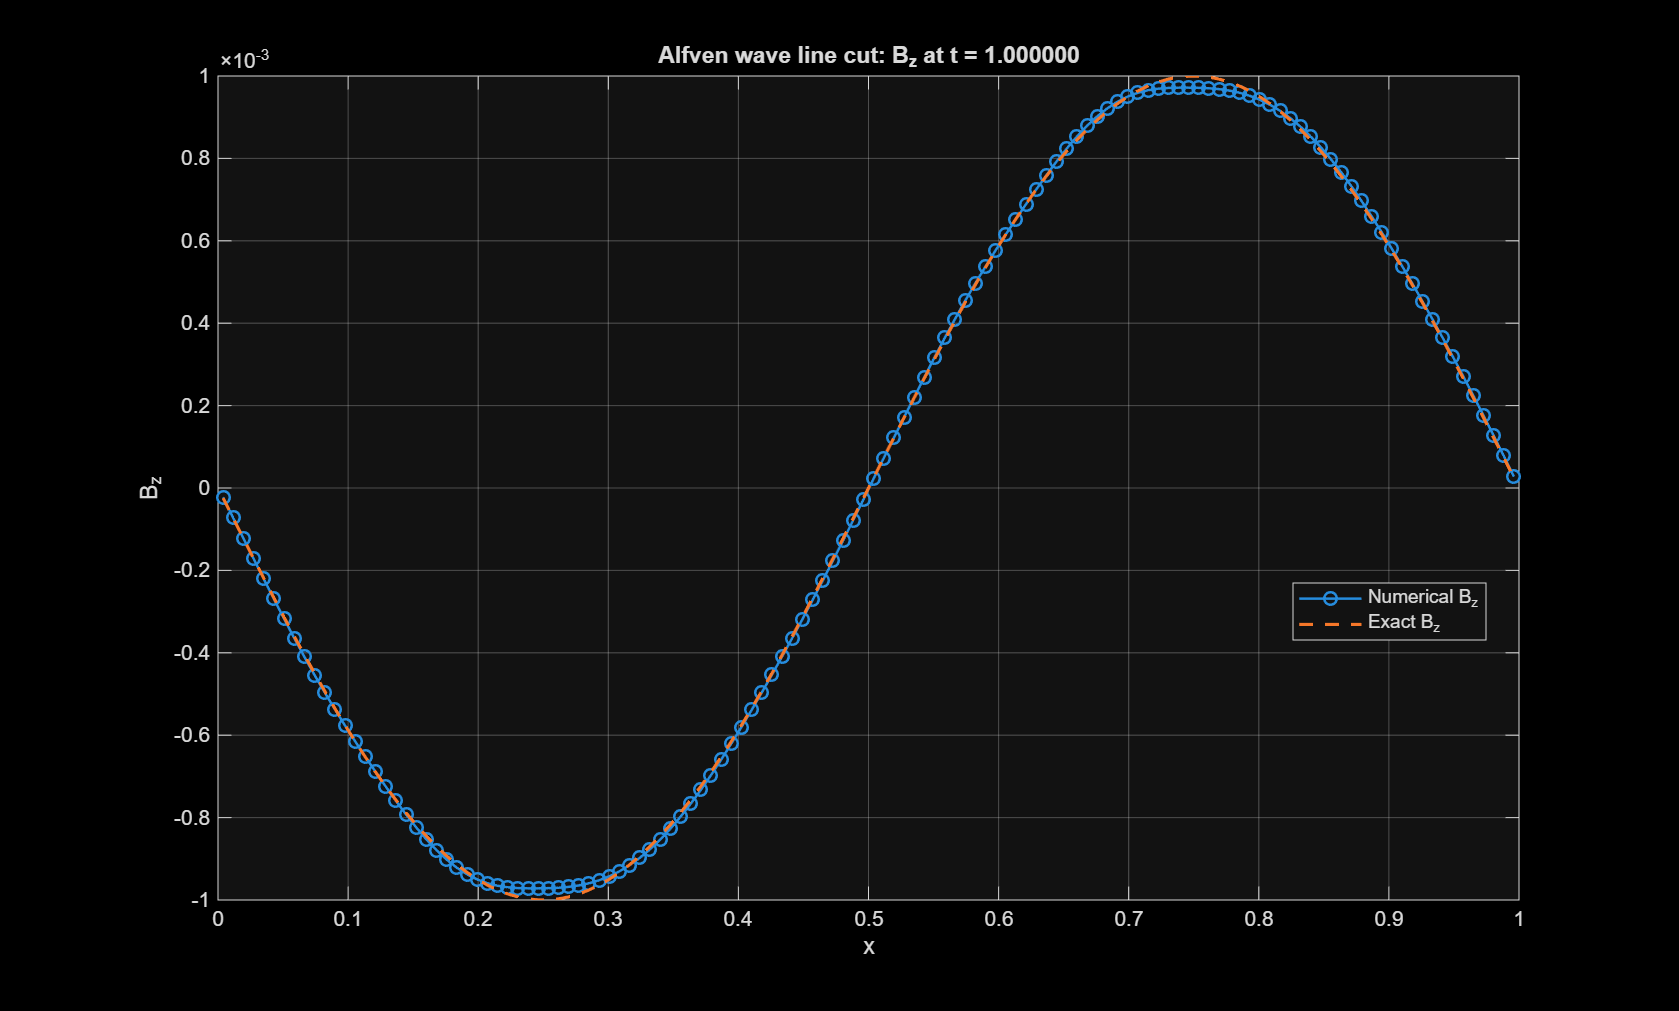
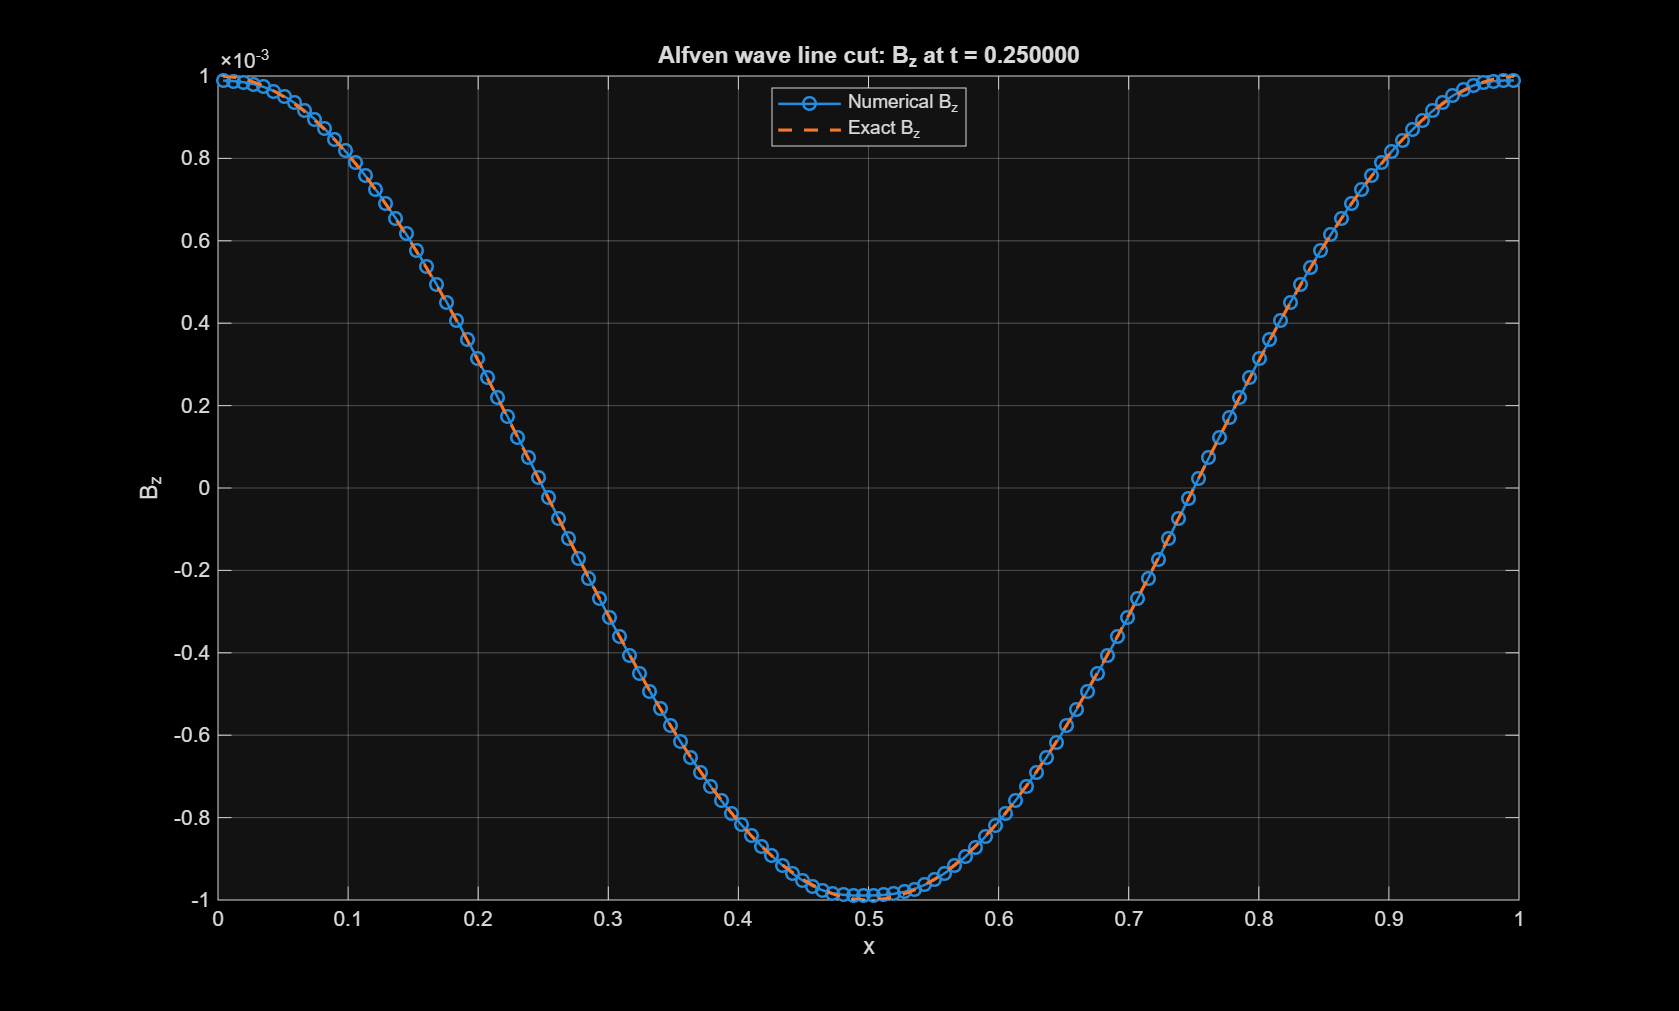
Add files via upload

diff --git a/cases/alfven_wave_case.m b/cases/alfven_wave_case.m
@@ -43,7 +43,7 @@ V0 = conserved_to_primitive(U, gamma);
 midRow = ceil(gridData.Ny / 2);
 uz_t0 = squeeze(V0(midRow,:,4)).';
 
-finalTime = params.period;
+finalTime = 0.25*params.period;
 t = 0.0;
 step = 0;
 maxSteps = 200000;
@@ -125,7 +125,7 @@ plot(timeHistory, errBzHistory, 'LineWidth', 1.5, 'DisplayName', 'L2 error in B_
 hold off;
 xlabel('time'); ylabel('L2 error');
 title('Alfven-wave error history');
-legend('Location', 'best'); gridData on;
+legend('Location', 'best'); grid on;
 saveas(figErr, fullfile(outDir, 'alfven_error_history.png'));
 close(figErr);
 
@@ -139,80 +139,44 @@ close(figDiv);
 
 summaryFile = fullfile(outDir, 'alfven_summary.txt');
 fid = fopen(summaryFile, 'w');
-fprintf(fid, 'Alfven wave verification summary
-');
-fprintf(fid, '--------------------------------
-');
-fprintf(fid, 'Spatial method        = PLM + minmod limiter
-');
-fprintf(fid, 'Time integrator       = RK2
-');
-fprintf(fid, 'Positivity floors     = enabled
-');
-fprintf(fid, 'rho floor             = %.6e
-', positivity.rhoFloor);
-fprintf(fid, 'p floor               = %.6e
-', positivity.pFloor);
-fprintf(fid, 'Nx = %d
-', Nx);
-fprintf(fid, 'Ny = %d
-', Ny);
-fprintf(fid, 'rho0 = %.6f
-', params.rho0);
-fprintf(fid, 'p0   = %.6f
-', params.p0);
-fprintf(fid, 'B0   = %.6f
-', params.B0);
-fprintf(fid, 'A    = %.6e
-', params.A);
-fprintf(fid, 'mode = %d
-', params.mode);
-fprintf(fid, 'k    = %.6f
-', params.k);
-fprintf(fid, 'vA expected = %.6f
-', params.vA);
-fprintf(fid, 'period      = %.6f
-', params.period);
-fprintf(fid, 'final time  = %.6f
-', t);
-fprintf(fid, 'steps       = %d
-', step);
-fprintf(fid, 'final L2 error in uz = %.6e
-', finalErrUz);
-fprintf(fid, 'final L2 error in Bz = %.6e
-', finalErrBz);
-fprintf(fid, 'measured phase speed = %.6f
-', measuredSpeed);
-fprintf(fid, 'max |div B| final    = %.6e
-', maxAbsDivB);
-fprintf(fid, 'rho min final        = %.6e
-', stateInfo.rhoMin);
-fprintf(fid, 'p min final          = %.6e
-', stateInfo.pMin);
-fprintf(fid, 'positivity floor events      = %d
-', numFloorEvents);
-fprintf(fid, 'total density-floor cells    = %d
-', numRhoFloorCells);
-fprintf(fid, 'total pressure-floor cells   = %d
-', numPFloorCells);
+fprintf(fid, 'Alfven wave verification summary');
+fprintf(fid, '--------------------------------');
+fprintf(fid, 'Spatial method        = PLM + minmod limiter');
+fprintf(fid, 'Time integrator       = RK2');
+fprintf(fid, 'Positivity floors     = enabled');
+fprintf(fid, 'rho floor             = %.6e', positivity.rhoFloor);
+fprintf(fid, 'p floor               = %.6e', positivity.pFloor);
+fprintf(fid, 'Nx = %d', Nx);
+fprintf(fid, 'Ny = %d', Ny);
+fprintf(fid, 'rho0 = %.6f', params.rho0);
+fprintf(fid, 'p0   = %.6f', params.p0);
+fprintf(fid, 'B0   = %.6f', params.B0);
+fprintf(fid, 'A    = %.6e', params.A);
+fprintf(fid, 'mode = %d', params.mode);
+fprintf(fid, 'k    = %.6f', params.k);
+fprintf(fid, 'vA expected = %.6f', params.vA);
+fprintf(fid, 'period      = %.6f', params.period);
+fprintf(fid, 'final time  = %.6f', t);
+fprintf(fid, 'steps       = %d', step);
+fprintf(fid, 'final L2 error in uz = %.6e', finalErrUz);
+fprintf(fid, 'final L2 error in Bz = %.6e', finalErrBz);
+fprintf(fid, 'measured phase speed = %.6f', measuredSpeed);
+fprintf(fid, 'max |div B| final    = %.6e', maxAbsDivB);
+fprintf(fid, 'rho min final        = %.6e', stateInfo.rhoMin);
+fprintf(fid, 'p min final          = %.6e', stateInfo.pMin);
+fprintf(fid, 'positivity floor events      = %d', numFloorEvents);
+fprintf(fid, 'total density-floor cells    = %d', numRhoFloorCells);
+fprintf(fid, 'total pressure-floor cells   = %d', numPFloorCells);
 fclose(fid);
 
-fprintf('Alfven-wave case finished.
-');
-fprintf('Expected Alfven speed  : %.6f
-', params.vA);
-fprintf('Measured phase speed   : %.6f
-', measuredSpeed);
-fprintf('Final L2 error in u_z  : %.6e
-', finalErrUz);
-fprintf('Final L2 error in B_z  : %.6e
-', finalErrBz);
-fprintf('Final max |div B|      : %.6e
-', maxAbsDivB);
-fprintf('Final rho min          : %.6e
-', stateInfo.rhoMin);
-fprintf('Final p min            : %.6e
-', stateInfo.pMin);
+fprintf('Alfven-wave case finished.');
+fprintf('Expected Alfven speed  : %.6f', params.vA);
+fprintf('Measured phase speed   : %.6f', measuredSpeed);
+fprintf('Final L2 error in u_z  : %.6e', finalErrUz);
+fprintf('Final L2 error in B_z  : %.6e', finalErrBz);
+fprintf('Final max |div B|      : %.6e', maxAbsDivB);
+fprintf('Final rho min          : %.6e', stateInfo.rhoMin);
+fprintf('Final p min            : %.6e', stateInfo.pMin);
 
 results = struct();
 results.gridData = gridData;

diff --git a/cases/alfven_wave_convergence_study.m b/cases/alfven_wave_convergence_study.m
@@ -88,7 +88,7 @@ hold off;
 set(gca,'XDir','reverse');
 xlabel('dx'); ylabel('L2 error');
 title('Alfven-wave convergence study');
-legend('Location','best'); gridData on;
+legend('Location','best'); grid on;
 saveas(fig1, fullfile(outDir, 'alfven_convergence.png'));
 close(fig1);
 
@@ -102,11 +102,9 @@ saveas(fig2, fullfile(outDir, 'alfven_divB_convergence.png'));
 close(fig2);
 
 fid = fopen(fullfile(outDir, 'alfven_convergence_summary.txt'), 'w');
-fprintf(fid, 'Nx    Ny       dx             L2(uz)         L2(Bz)         max|divB|       measured speed   floor events
-');
+fprintf(fid, 'Nx    Ny       dx             L2(uz)         L2(Bz)         max|divB|       measured speed   floor events');
 for iCase = 1:nCases
-    fprintf(fid, '%-5d %-5d %-14.6e %-14.6e %-14.6e %-14.6e %-16.6f %-8d
-', ...
+    fprintf(fid, '%-5d %-5d %-14.6e %-14.6e %-14.6e %-14.6e %-16.6f %-8d', ...
         NxList(iCase), max(8, round(NxList(iCase)/NyFactor)), dxVals(iCase), errUz(iCase), errBz(iCase), maxDivB(iCase), measuredSpeed(iCase), numFloorEvents(iCase));
 end
 fclose(fid);

diff --git a/src/diagnostics/measure_alfven_phase_speed.m b/src/diagnostics/measure_alfven_phase_speed.m
@@ -2,15 +2,27 @@ function measuredSpeed = measure_alfven_phase_speed(x, fieldAtT0, fieldAtT, t)
 % measure_alfven_phase_speed
 %
 % Estimates the phase speed of a periodic traveling wave by computing the
-% spatial shift that best aligns fieldAtT with fieldAtT0.
+% circular shift that best aligns fieldAtT with fieldAtT0.
 
 x = x(:);
 f0 = fieldAtT0(:);
 ft = fieldAtT(:);
 
+if numel(x) < 2
+    error('x must contain at least two points.');
+end
+
+if numel(f0) ~= numel(x) || numel(ft) ~= numel(x)
+    error('x, fieldAtT0, and fieldAtT must have the same length.');
+end
+
 Nx = length(x);
 dx = x(2) - x(1);
 Lx = Nx * dx;
+
+% Remove any tiny mean offset before correlation
+f0 = f0 - mean(f0);
+ft = ft - mean(ft);
 
 bestScore = -inf;
 bestShiftIndex = 0;
@@ -26,6 +38,7 @@ end
 
 shiftDistance = bestShiftIndex * dx;
 
+% Map shift into [-Lx/2, Lx/2]
 if shiftDistance > 0.5 * Lx
     shiftDistance = shiftDistance - Lx;
 end
